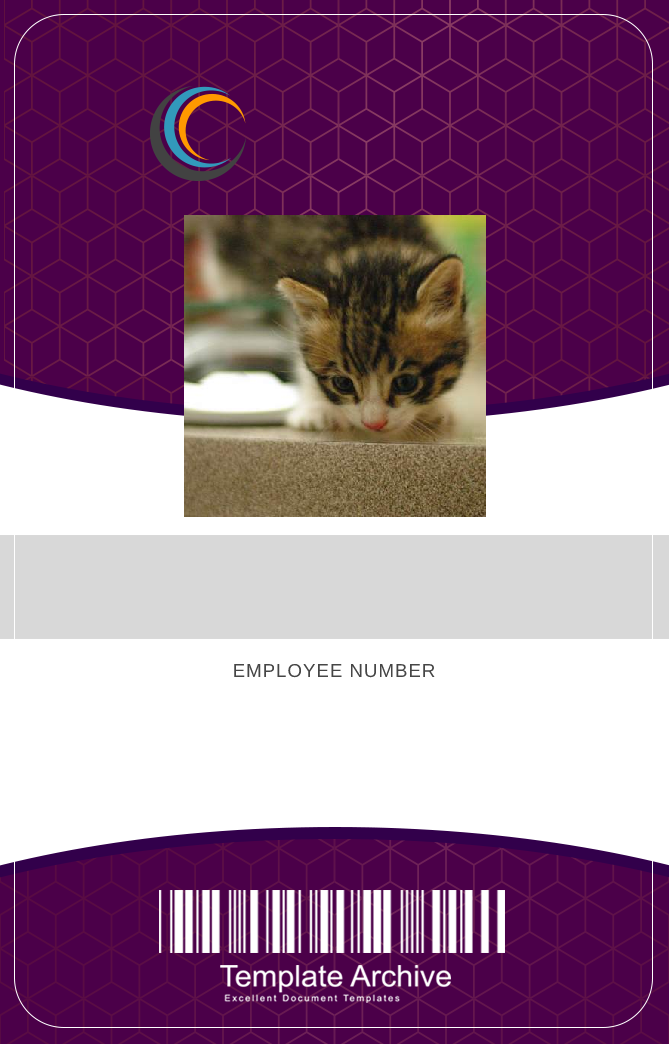
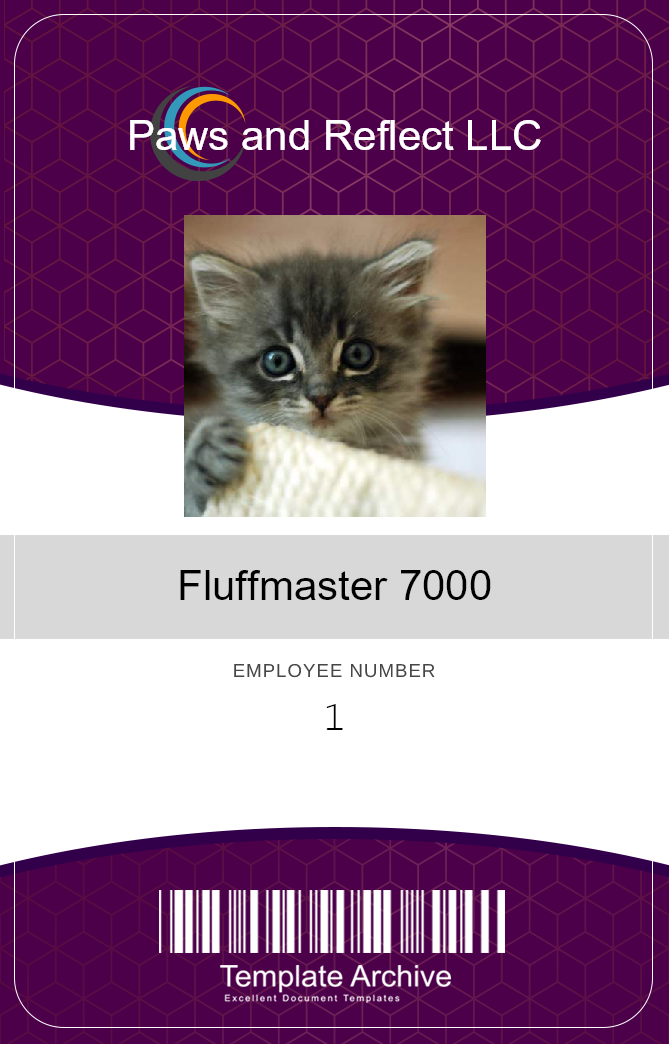
set up DrawText method

Changed region(s): [[0.2691, 0.1839, 0.7474, 0.5824], [0.1794, 0.092, 0.8072, 0.1533], [0.4783, 0.6743, 0.5082, 0.705]]

diff --git a/Utils.cs b/Utils.cs
@@ -51,6 +51,12 @@ namespace CatWorx.BadgeMaker
             int PHOTO_RIGHT_X = 486;
             int PHOTO_BOTTOM_Y = 517;
 
+            int COMPANY_NAME_Y = 150;
+
+            int EMPLOYEE_NAME_Y = 600;
+
+            int EMPLOYEE_ID_Y = 730;
+
             using (HttpClient client = new HttpClient())
             {
                 for (int i = 0; i < employees.Count; i++)
@@ -64,9 +70,33 @@ namespace CatWorx.BadgeMaker
                     canvas.DrawImage(background, new SKRect(0, 0, BADGE_WIDTH, BADGE_HEIGHT));
                     canvas.DrawImage(photo, new SKRect(PHOTO_LEFT_X, PHOTO_TOP_Y, PHOTO_RIGHT_X, PHOTO_BOTTOM_Y));
 
+                    employees[i].GetCompanyName();
+
+                    SKPaint paint = new SKPaint();
+                    paint.TextSize = 42.0f;
+                    paint.IsAntialias = true;
+                    paint.Color = SKColors.White;
+                    paint.IsStroke = false;
+                    paint.TextAlign = SKTextAlign.Center;
+                    paint.Typeface = SKTypeface.FromFamilyName("Arial");
+
+                    canvas.DrawText(employees[i].GetCompanyName(), BADGE_WIDTH / 2f, COMPANY_NAME_Y, paint);
+
+                    paint.Color = SKColors.Black;
+
+                    // Employee name
+                    canvas.DrawText(employees[i].GetFullName(), BADGE_WIDTH / 2f, EMPLOYEE_NAME_Y, paint);
+
+                    paint.Typeface = SKTypeface.FromFamilyName("Courier New");
+
+                    // Employee ID
+                    canvas.DrawText(employees[i].GetId().ToString(), BADGE_WIDTH / 2f, EMPLOYEE_ID_Y, paint);
+
                     SKImage finalImage = SKImage.FromBitmap(badge);
                     SKData data = finalImage.Encode();
-                    data.SaveTo(File.OpenWrite("data/employeeBadge.png"));
+                    string template = "data/{0}_badge.png";
+                    data.SaveTo(File.OpenWrite(string.Format(template, employees[i].GetId())));
+
                 }
             }
         }

diff --git a/obj/Debug/net8.0/CatWorx.BadgeMaker.AssemblyInfo.cs b/obj/Debug/net8.0/CatWorx.BadgeMaker.AssemblyInfo.cs
@@ -13,7 +13,7 @@ using System.Reflection;
 [assembly: System.Reflection.AssemblyCompanyAttribute("CatWorx.BadgeMaker")]
 [assembly: System.Reflection.AssemblyConfigurationAttribute("Debug")]
 [assembly: System.Reflection.AssemblyFileVersionAttribute("1.0.0.0")]
-[assembly: System.Reflection.AssemblyInformationalVersionAttribute("1.0.0+4a3439b873e93552bbfa04828e5eac2e3cf84d7a")]
+[assembly: System.Reflection.AssemblyInformationalVersionAttribute("1.0.0+b2221c67ce8bb3516c89448101f2fe06ae0dba47")]
 [assembly: System.Reflection.AssemblyProductAttribute("CatWorx.BadgeMaker")]
 [assembly: System.Reflection.AssemblyTitleAttribute("CatWorx.BadgeMaker")]
 [assembly: System.Reflection.AssemblyVersionAttribute("1.0.0.0")]

diff --git a/Employee.cs b/Employee.cs
@@ -28,5 +28,9 @@ namespace CatWorx.BadgeMaker
             return PhotoUrl;
 
         }
+        public string GetCompanyName()
+        {
+            return "Paws and Reflect LLC";
+        }
     }
 }
